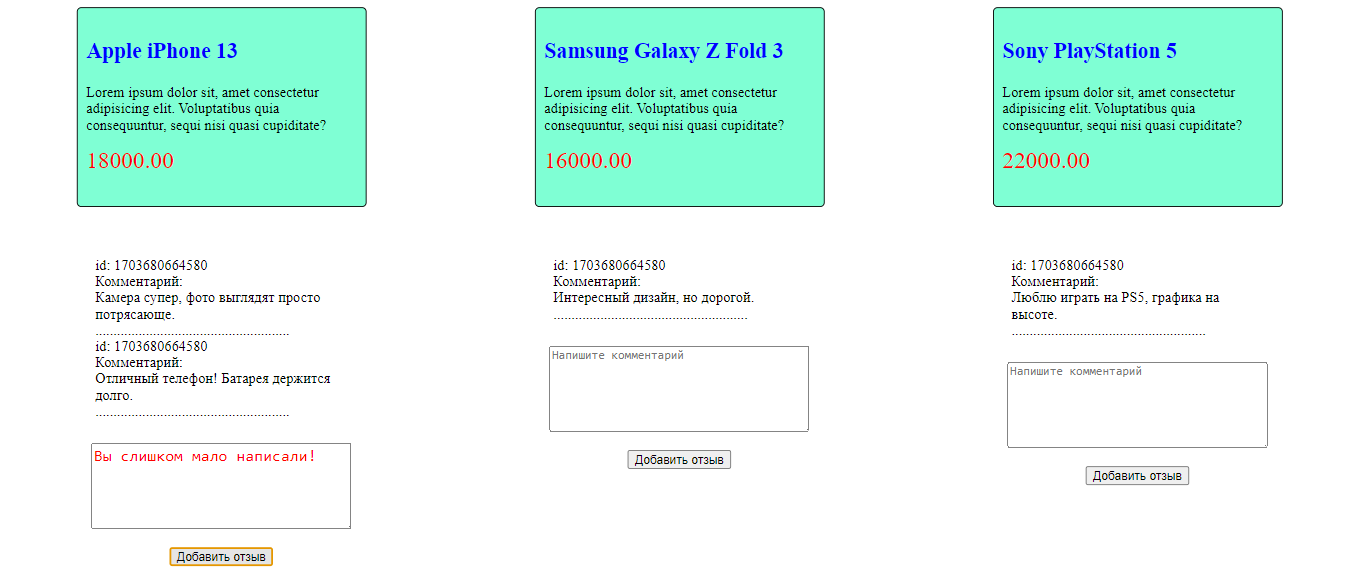
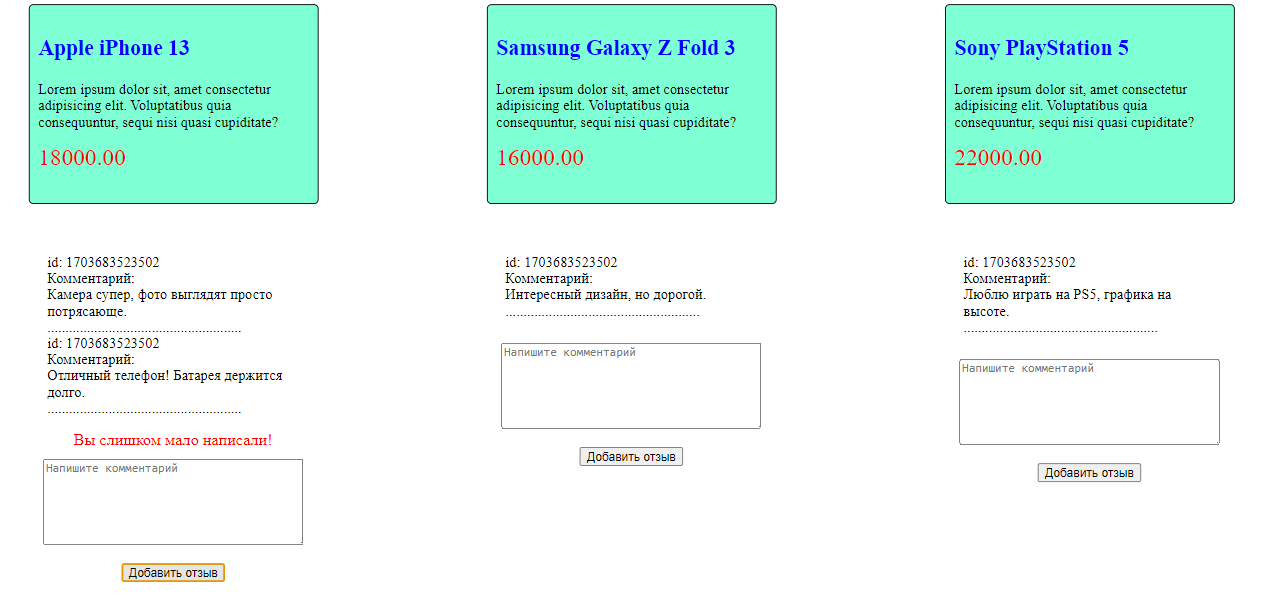
Изменения: сделан вывоз над полем ввода, вместо placeholder

diff --git a/2.js b/2.js
@@ -88,9 +88,10 @@ class Reviews{
         this.filter();
         if (this._review.length !== 0){
           this.addReview(this._review, product.childNodes[1].innerText);
-          input.forEach(el => {
+          errMessage.forEach(el => {
             el.classList.remove('color');
-            el.placeholder = "Напишите комментарий";
+            // el.placeholder = "Напишите комментарий";
+            el.innerHTML = '';
           });
         }
         this._review = '';
@@ -126,9 +127,9 @@ class Reviews{
     for (let i = 0; i < input.length; i++){
       try{
         if (input[i].value.length !== 0){
-          if (input[i].value.length < 50){
+          if (input[i].value.length < 5){
             throw new Error('Вы слишком мало написали!');
-          }else if (input[i].value.length > 500){
+          }else if (input[i].value.length > 50){
             throw new Error(`У вас слишком большой комментарий!`)
           }else{
             this._review = input[i].value;
@@ -136,8 +137,10 @@ class Reviews{
           }
         }
       }catch(err){
-        input[i].className = 'color';
-        input[i].placeholder = err.message;
+        errMessage[i].className = 'color';
+        errMessage[i].innerHTML = err.message;
+        // input[i].className = 'color';
+        // input[i].placeholder = err.message;
       }finally{
         input[i].value = '';
       }

diff --git a/style.css b/style.css
@@ -64,7 +64,11 @@ li{
     gap: 10px;
 }
 
-.color::placeholder{
+.color{
     color: red;
     font-size: 18px;
 }
+/* .color::placeholder{
+    color: red;
+    font-size: 18px;
+} */

diff --git a/README.md b/README.md
@@ -12,7 +12,7 @@
 
 ### Задание 2
 ![](/img/scan_006.png)
-##### Добавление крммунтария
+##### Добавление комментария
 ![](/img/scan_007.png)
 ![](/img/scan_007_1.png)
 ##### Добавление коммтария менее 50 символов
